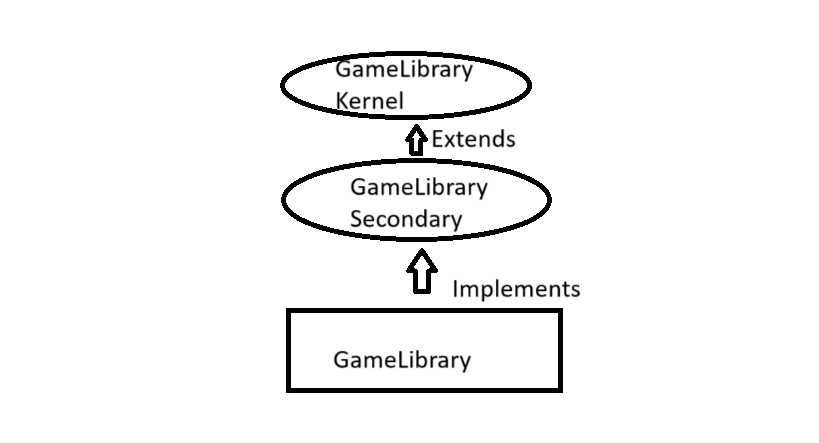
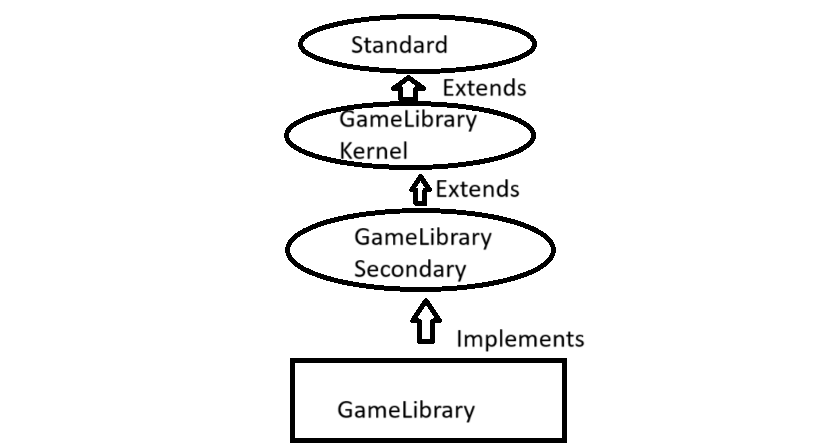
Completed Interface Draft
Completed the 2 interfaces for GameLibrary.

diff --git a/src/GameLibraryKernel.java b/src/GameLibraryKernel.java
@@ -1,0 +1,71 @@
+import components.standard.Standard;
+
+/**
+ * GameLibrary Kernel component with primary methods.
+ */
+public interface GameLibraryKernel extends Standard<Game> {
+
+    /**
+     * Adds a given game with its corresponding playtime to the library.
+     *
+     * @param game
+     *            the custome Game object that is added
+     * @param playtime
+     *            the playtime of the game
+     * @requires playtime >= 0
+     * @updates this
+     * @ensures #this = this - {game, playtime}
+     */
+    void add(Game game, int playtime);
+
+    /**
+     * Removes and returns a game from the library.
+     *
+     * @return the Game object that was removed
+     * @requires this.size() > 0
+     * @updates this
+     * @ensures this != #this
+     */
+    Game removeAny();
+
+    /**
+     * Removes a specified game from the library
+     *
+     * @param game
+     *            the Game that will be removed
+     * @requires this.hasGame(game) = true
+     * @updates this
+     * @ensures this = #this * game
+     */
+    void remove(Game game);
+
+    /**
+     * Indicates the total playtime of a given game.
+     *
+     * @param game
+     *            the Game that will have its playtime retrieved
+     * @return the total playtime of the given Game
+     * @requires this.hasGame(game) = true
+     * @ensures playtime is a playtime in the library
+     */
+    int playtime(Game game);
+
+    /**
+     * Indicates if the given game is already in the library or not.
+     *
+     * @param game
+     *            the Game that is compared to the library of games
+     * @return true if the given game is in the library
+     * @ensures there is a game in the library equivalent to Game game
+     */
+    boolean hasGame(Game game);
+
+    /**
+     * Indicates the number of games in the library.
+     *
+     * @return the total number of games in the library
+     * @ensures size = |this|
+     */
+    int size();
+
+}

diff --git a/src/components/GameLibrary/GameLibrarySecondary.java b/src/components/GameLibrary/GameLibrarySecondary.java
@@ -1,0 +1,42 @@
+package components.gamelibrary;
+
+/**
+ * GameLibrary component with secondary methods.
+ */
+public interface GameLibrarySecondary extends GameLibraryKernel {
+
+    /**
+     * Selects a game from the library.
+     *
+     * @return a Game from the library
+     * @requires this.size() > 0
+     * @ensures Game selectAny is in the library
+     */
+    Game selectAny();
+
+    /**
+     * Updates a games playtime from the library.
+     *
+     * @param game
+     *            the Game that will have its playtime updated
+     * @param playtime
+     *            the new playtime value
+     * @requires this.hasGame(game) and time != 0
+     * @updates this
+     * @ensures #(Game game, int playtime) = (Game game, int #playtime)
+     *
+     */
+    void updateTime(Game game, int playtime);
+
+    /**
+     * Checks and returns if there is a game in the library with the given
+     * playtime
+     *
+     * @param playtime
+     *            the playtime that will be checked in the library
+     * @return a game with a matching playtime value
+     * @ensures playtime is in the library if returning a Game value
+     */
+    Game hasTime(int playtime);
+
+}

diff --git a/doc/03-component-interfaces/03-component-interfaces.md b/doc/03-component-interfaces/03-component-interfaces.md
@@ -152,8 +152,6 @@ to see them. If you don't like this workflow, you may try following the
 rebase strategies described [here](https://stackoverflow.com/questions/35790561/working-while-waiting-for-pending-pr)
 and [here](https://stackoverflow.com/questions/18021888/continue-working-on-a-git-branch-after-making-a-pull-request).
 
-<!-- TODO: make a new branch from main then delete this comment -->
-
 ## Assignment Tasks
 
 Your primary task for this assignment is to draft two interfaces in line with
@@ -209,8 +207,6 @@ like to accomplish that, you will need to make GitHub releases after each pull
 request merge (or at least tag your commits). This is not required.
 
 ### Submission
-
-<!-- TODO: read the submission instructions then delete this comment -->
 
 Assuming that your project is in a GitHub repo somewhere and your changes are on
 a proof-of-concept branch, then what we'll want you to do is create a pull

diff --git a/CHANGELOG.md b/CHANGELOG.md
@@ -13,3 +13,9 @@ the following form: YYYY.0M.0D.
 - Designed a GameLibrary component
 - Designed a MusicPlaylist component
 - Designed a StoreInventory component
+
+## 2025.03.03
+
+### Added
+
+- Designed kernel and enhanced interfaces for GameLibrary component
